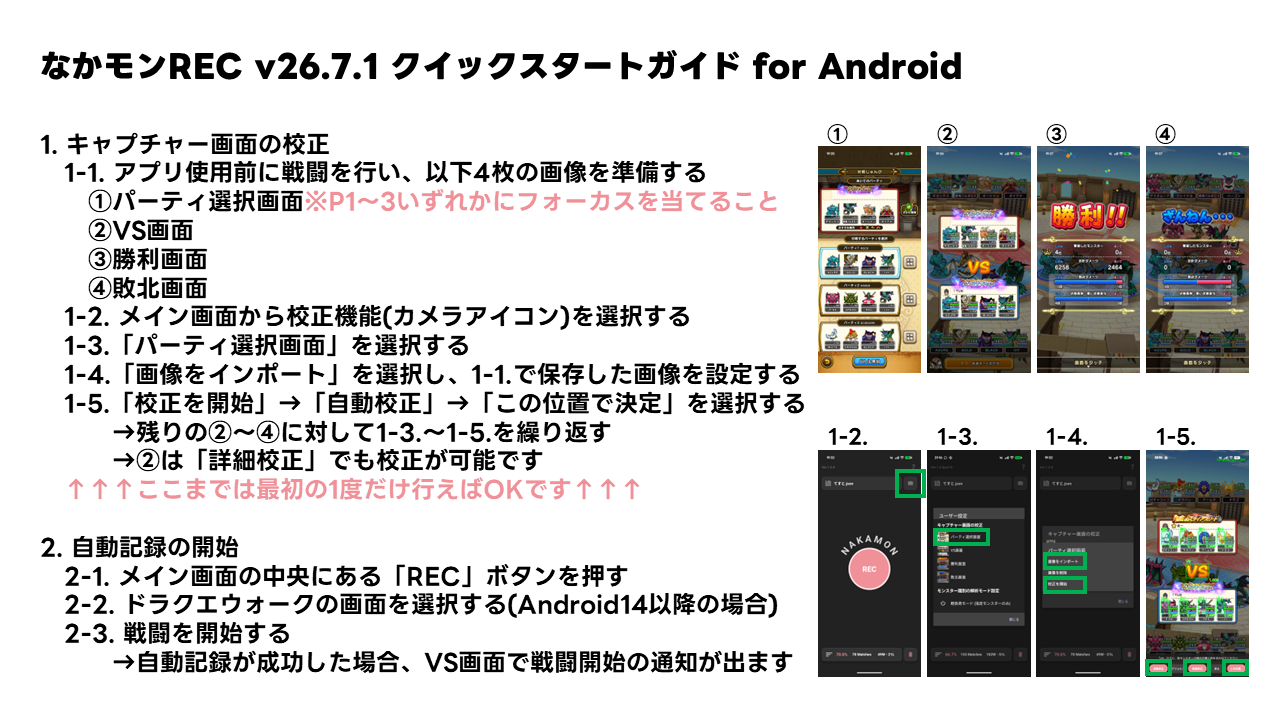
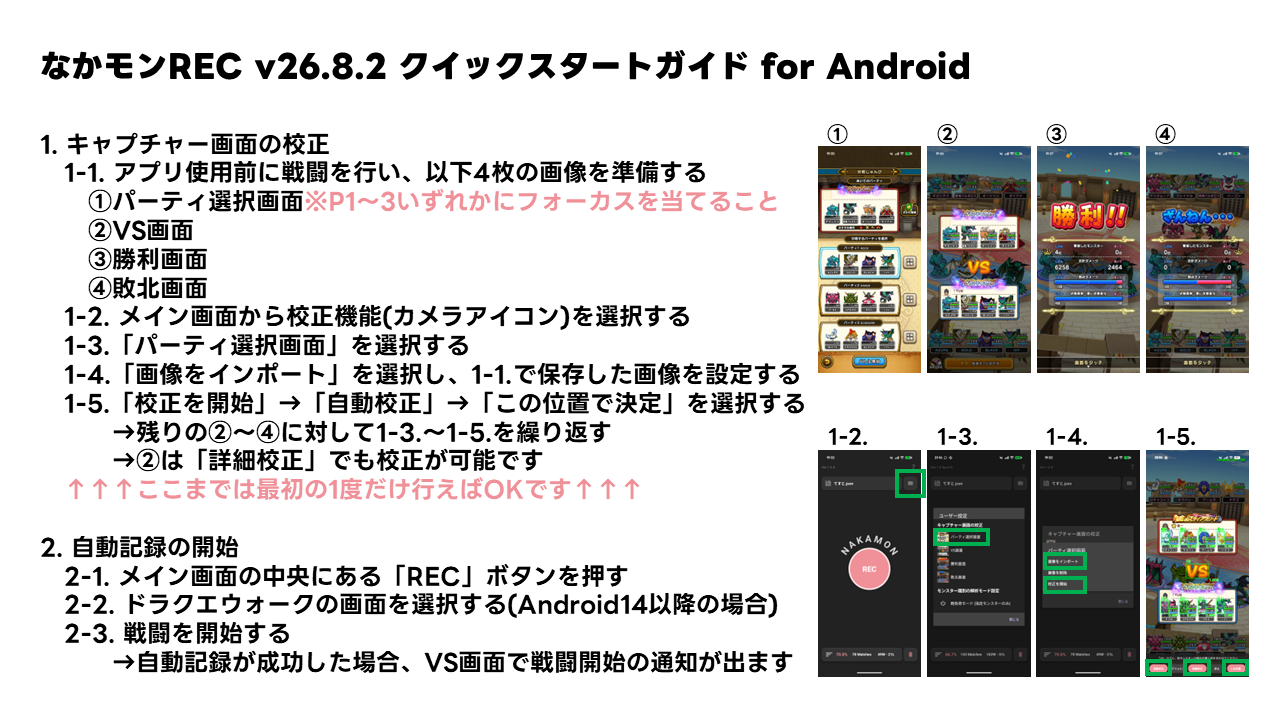
docs: update help page images and version for 26.8.2
Replace all four help images (quickstart iOS/Android, records,
troubleshoot) with the 26.8.2 editions exported from readme.pptx,
and bump the help page version line to v26.8.2.

Changed region(s): [[0.25, 0.0611, 0.7812, 0.1222]]

diff --git a/docs/help.html b/docs/help.html
@@ -65,7 +65,7 @@
 <body>
 
 <h1>なかモンREC ヘルプ</h1>
-<p class="meta">対応バージョン: v26.7.1 / Last updated: 2026-07-11</p>
+<p class="meta">対応バージョン: v26.8.2 / Last updated: 2026-08-16</p>
 
 <p>
   なかモンREC (NakamonREC) の基本操作・トラブルシューティングをまとめたヘルプページです。
